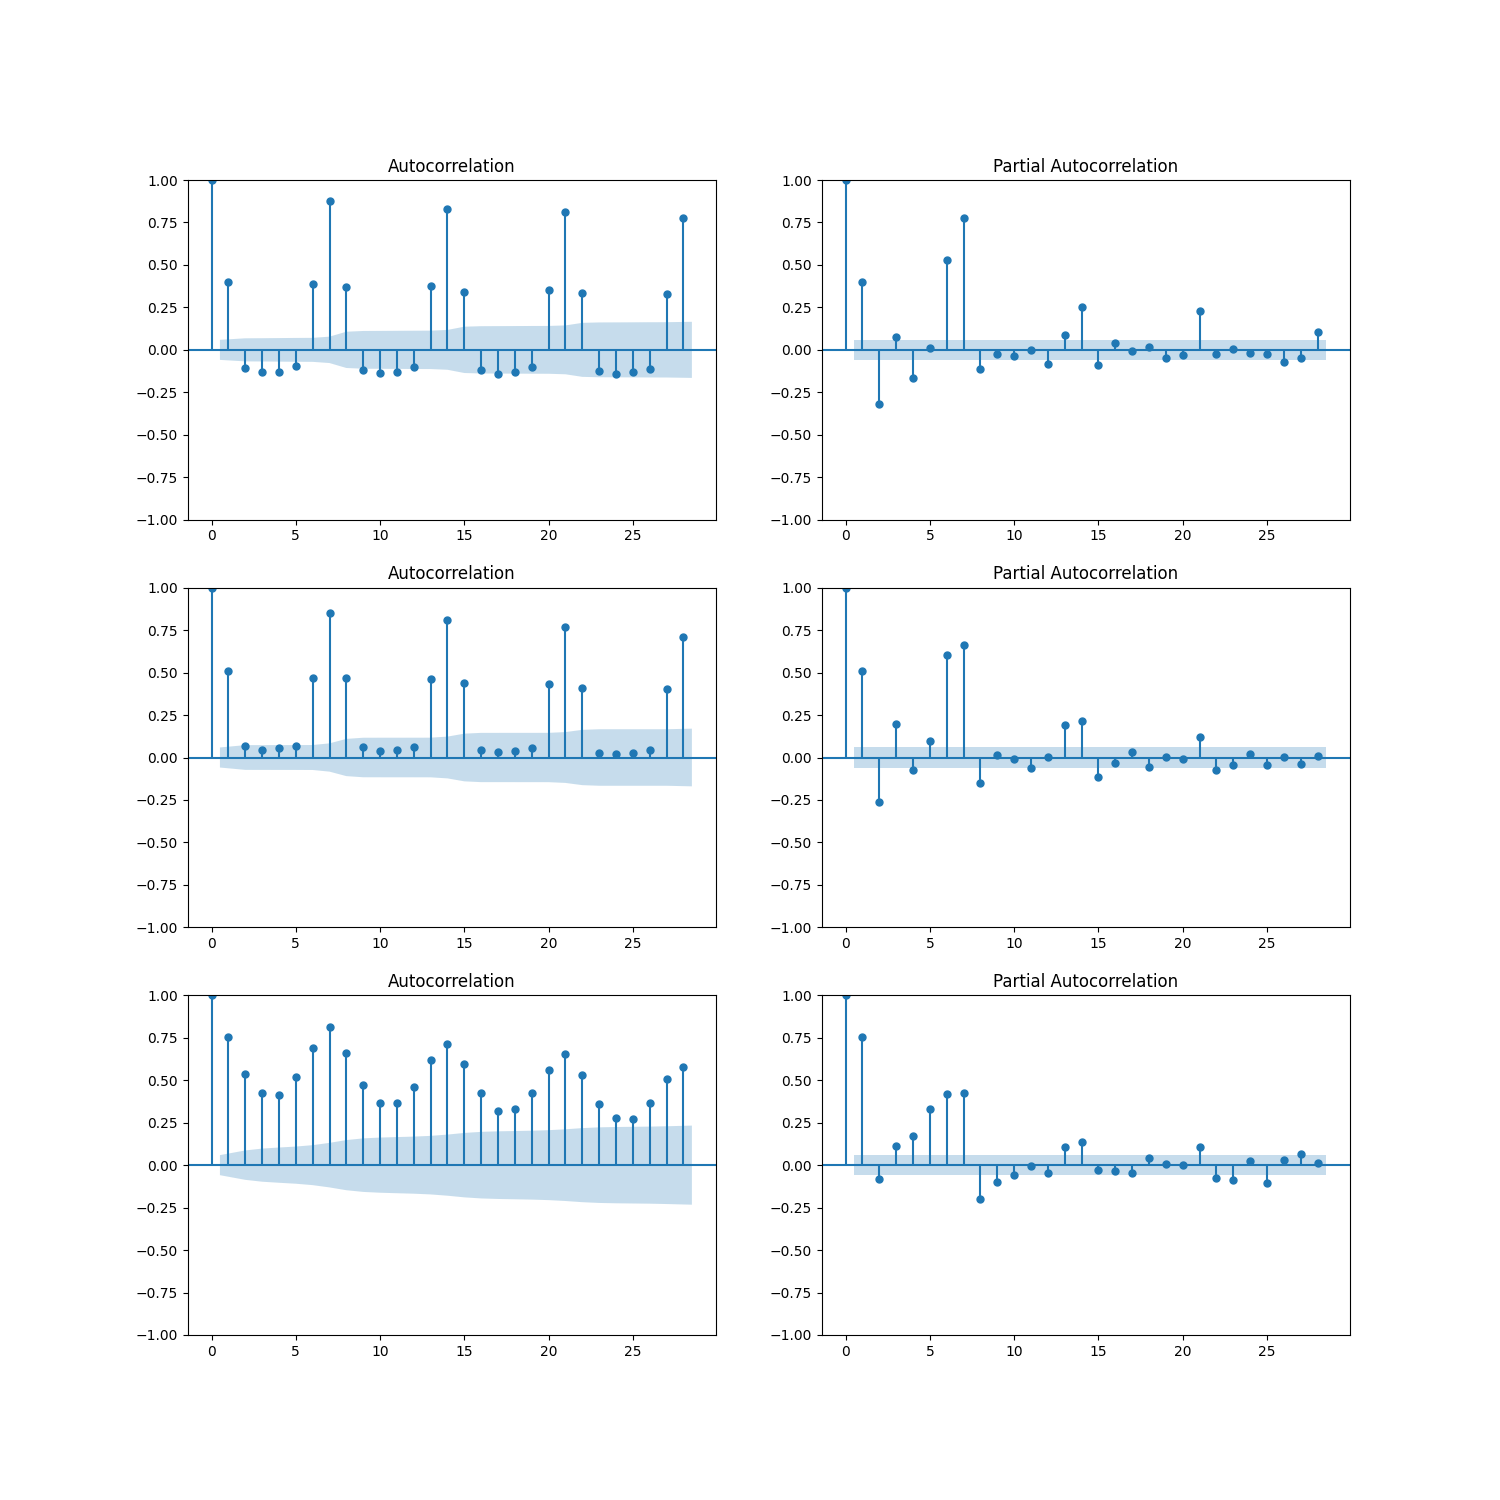
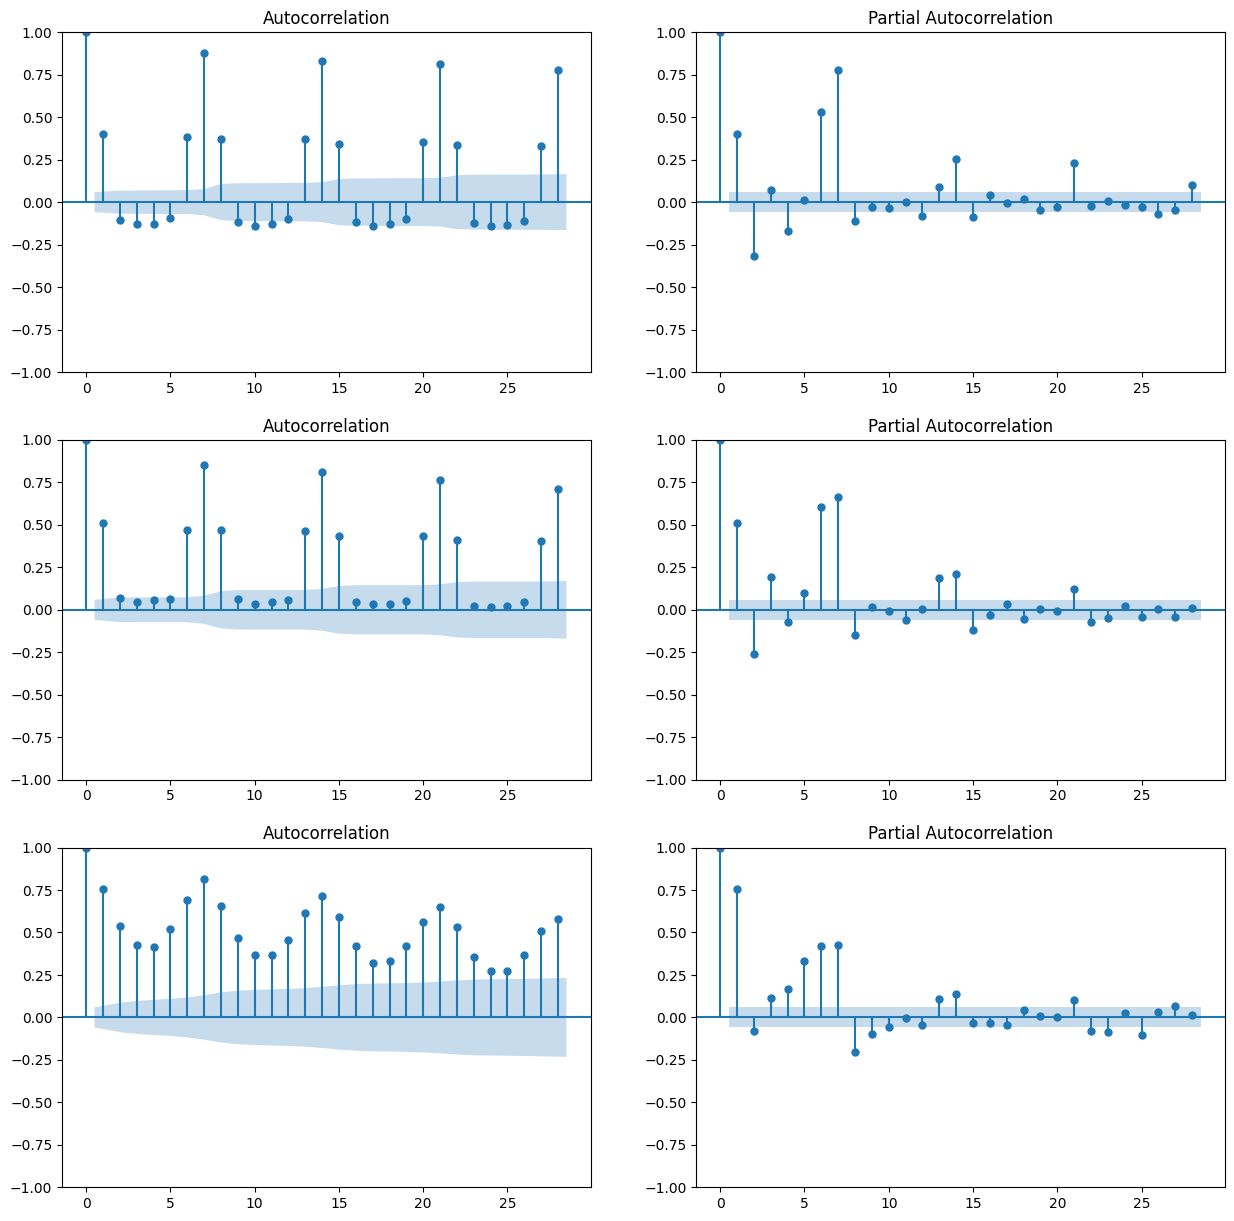
No whitespace around plots

diff --git a/Models/PlotCorrelation.py b/Models/PlotCorrelation.py
@@ -24,4 +24,4 @@ for i in range(3):
     plot_acf(df[df["Company"] == i]["SalesScaled"], lags = 7*4, ax = ax)
     plot_pacf(df[df["Company"] == i]["SalesScaled"], lags = 7*4, ax = ax2)
 # plt.show()
-plt.savefig("output/autocorrelation.png")
+plt.savefig("output/autocorrelation.png", bbox_inches='tight')

diff --git a/Models/PlotWeekly.py b/Models/PlotWeekly.py
@@ -23,4 +23,4 @@ for i in range(3):
     ax.plot(df[df["Company"] == i].groupby("Weekday")["Sales"].mean())
 
 # plt.show()
-plt.savefig("output/weekly.png")
+plt.savefig("output/weekly.png", bbox_inches='tight')
